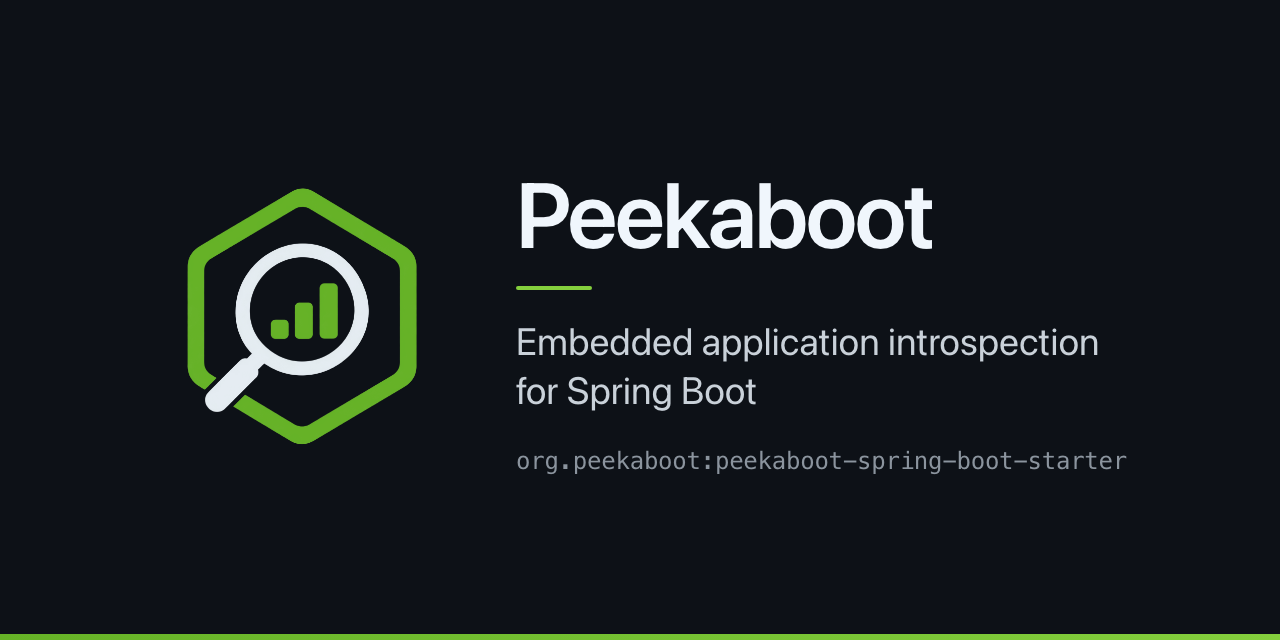
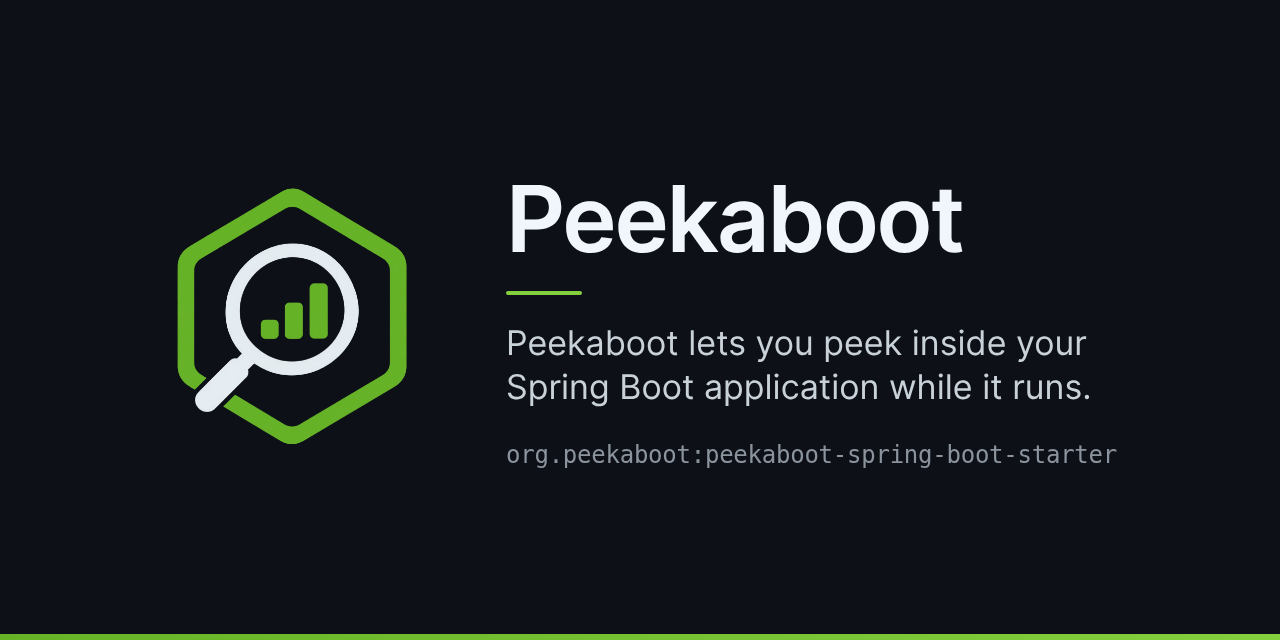
docs: show the new tagline on the social cards

diff --git a/_includes/head.html b/_includes/head.html
@@ -2,7 +2,7 @@
 {%- assign page_title = page_title | escape -%}
 {%- assign page_description = page.description | default: page.lead | default: site.description | escape -%}
 {%- assign social_image = '/assets/img/social/og.png' | absolute_url -%}
-{%- capture social_image_alt -%}The Peekaboot logo mark beside the wordmark, the tagline Embedded application introspection for Spring Boot, and the Maven coordinate org.peekaboot:peekaboot-spring-boot-starter{%- endcapture -%}
+{%- capture social_image_alt -%}The Peekaboot logo mark beside the wordmark, the tagline Peekaboot lets you peek inside your Spring Boot application while it runs, and the Maven coordinate org.peekaboot:peekaboot-spring-boot-starter{%- endcapture -%}
 <meta charset="utf-8">
 <meta name="viewport" content="width=device-width, initial-scale=1">
 <title>{{ page_title }}</title>
